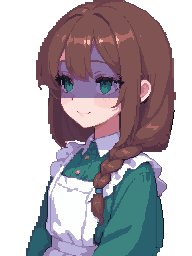
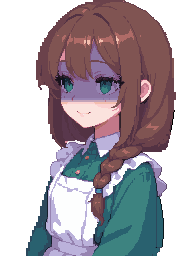
Mira's shadow fades out in three flat steps below the edge instead of a hard line

Changed region(s): [[0.3125, 0.375, 0.625, 0.4062]]

diff --git a/game/art/NOTES.md b/game/art/NOTES.md
@@ -14,6 +14,8 @@
   - `smile`（和 `shawl_smile`）：不再壓上眼瞼（就是那一步讓睫毛斷掉），睫毛整條是一般那張的；只把下眼瞼往上抬 3 格，而且不會抬到睫毛裡。下眼瞼附近原本留下的白點（含兩眼之間的兩格）換回一般那張。
   - 頭頂瀏海分線那幾顆淡紫色的點：是頭髮上的淺桃色光澤，顏色剛好和膚色一樣，被當成皮膚一起罩了陰影。現在罩陰影前先把小於 40 格的「膚色小島」排除，那些光澤恢復成原本的桃色。
 
+- **3 蜜拉陰影的下緣**：照 `ref/shadow.png` 改成往下漸淡。陰影本體照舊到 y 98 為止，下面再接三階、每階 2 列，陰影強度分別是 75 %、50 %、25 %，每階一個顏色、沒有網點。實際顏色由深到淺是：陰影的紫 → 淡紫（她色盤裡眼白陰影那個顏色）→ 偏粉的淡紫 → 她原本的淡粉膚色 → 膚色。範圍、顏色、只罩臉不罩頭髮都沒變；y 104 以下除了嘴，和一般那張一格不差。八張（含 `shawl` 四張）一起重做。
+
 ## 總結：第四輪（第三輪看過之後還要修的）
 
 README「第四輪」第 0 到 7 項全部做完，每項做完就提交並推上 `ccr-62025098-zk9541`，沒有跳過的項目。只用本機 ComfyUI，只動 `game/art/` 底下、清單列到的圖。各項的做法寫在下面「第四輪」那一節。
